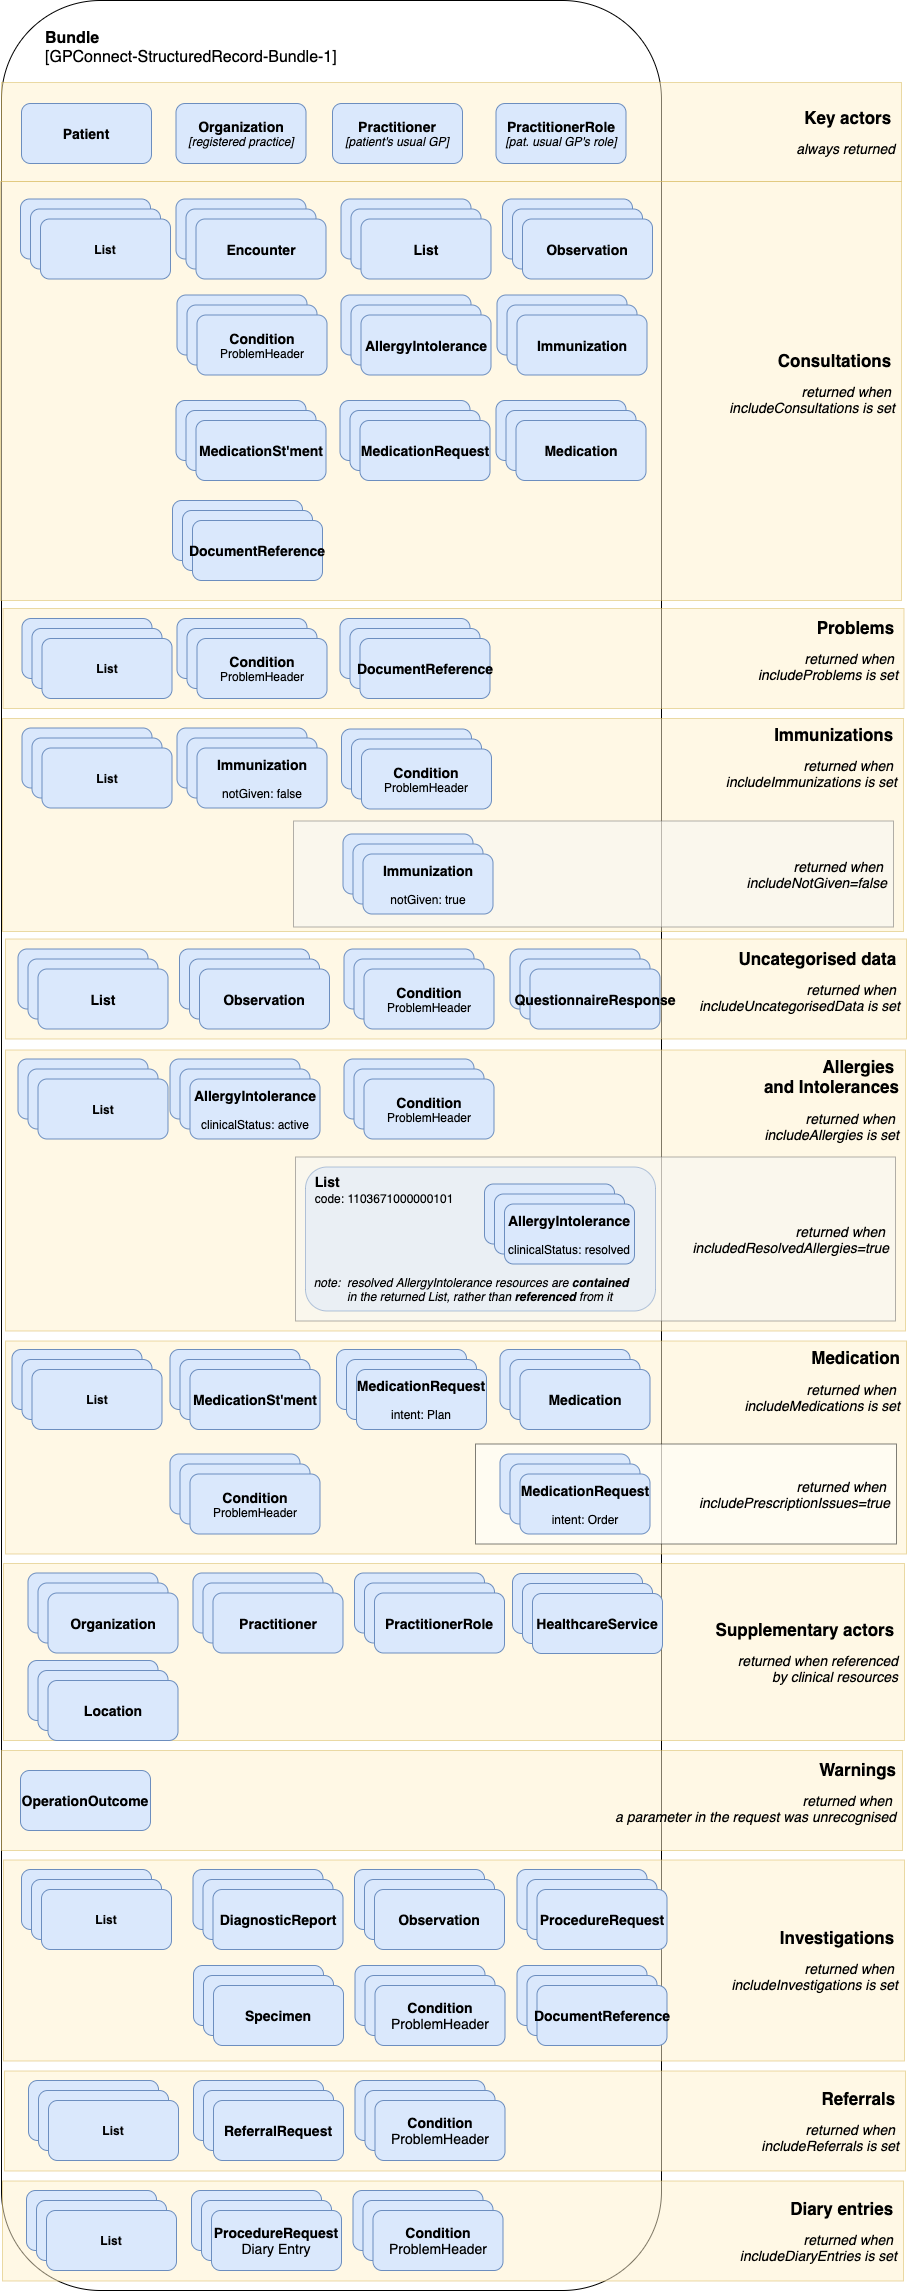
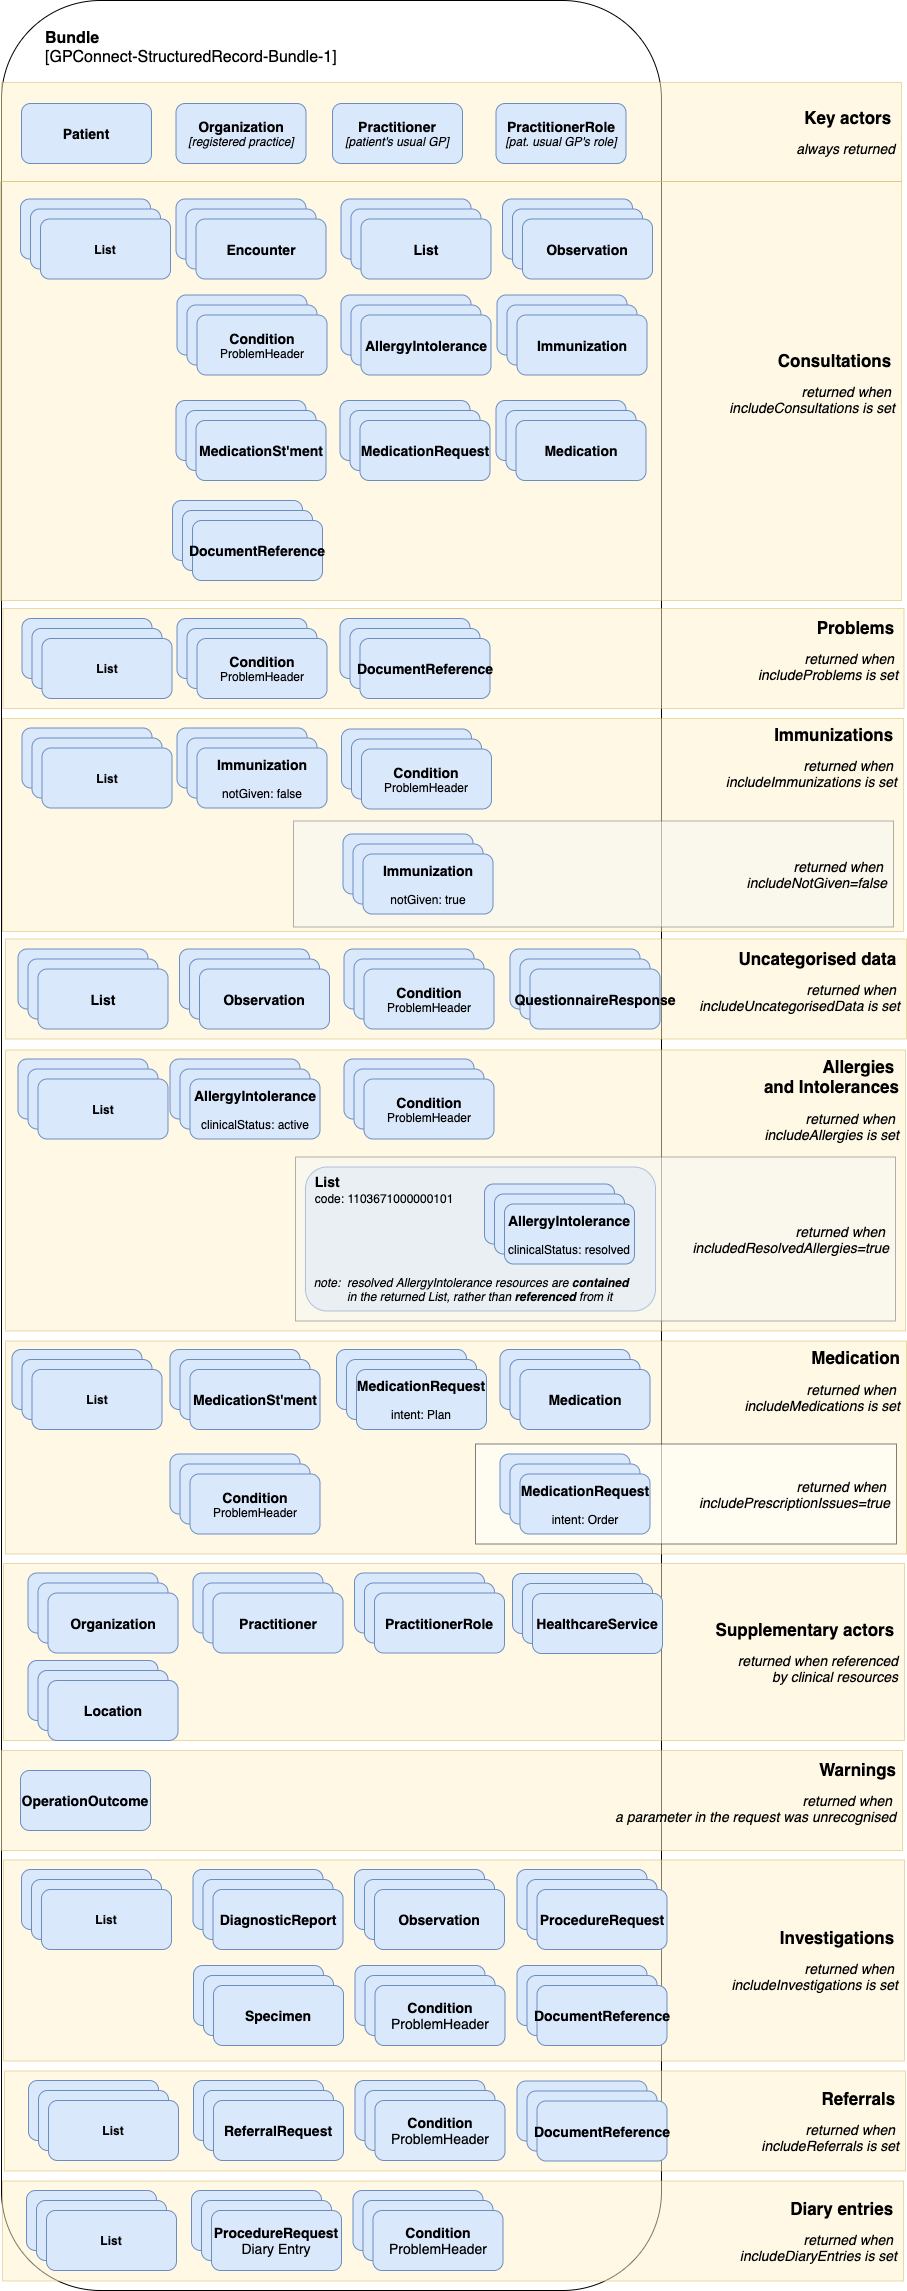
added referenced doc ref to referrals

Changed region(s): [[0.5557, 0.8987, 0.7409, 0.9607]]

diff --git a/pages/accessrecord_structured/accessrecord_structured_development_retrieve_patient_record.md b/pages/accessrecord_structured/accessrecord_structured_development_retrieve_patient_record.md
@@ -810,7 +810,7 @@ Provider systems **MUST** include the following in the response `Bundle`:
 
   - A [`List`](accessrecord_structured_development_list.html) resource referencing [`ReferralRequest`](accessrecord_structured_development_referralrequest.html) resources that match the supplied query parameters
   - A [`List`](accessrecord_structured_development_list.html) resource referencing [`Condition`](accessrecord_structured_problems.html) resources that are linked from the returned [`ReferralRequest`](accessrecord_structured_development_referralrequest.html) resources
-  - [`ReferralRequest`](accessrecord_structured_development_referralrequest.html) and [`Condition`](accessrecord_structured_problems.html) resources representing the patient's referrals will be returned.
+  - [`ReferralRequest`](accessrecord_structured_development_referralrequest.html), [`Condition`](accessrecord_structured_problems.html) and [`DocumentReference`]() resources representing the patient's referrals will be returned.
 
 - when the `referralSearchPeriod` is set:
   - when a `start` value is set, all referrals with a `ReferralRequest.authoredOn` after the date **MUST** be returned
